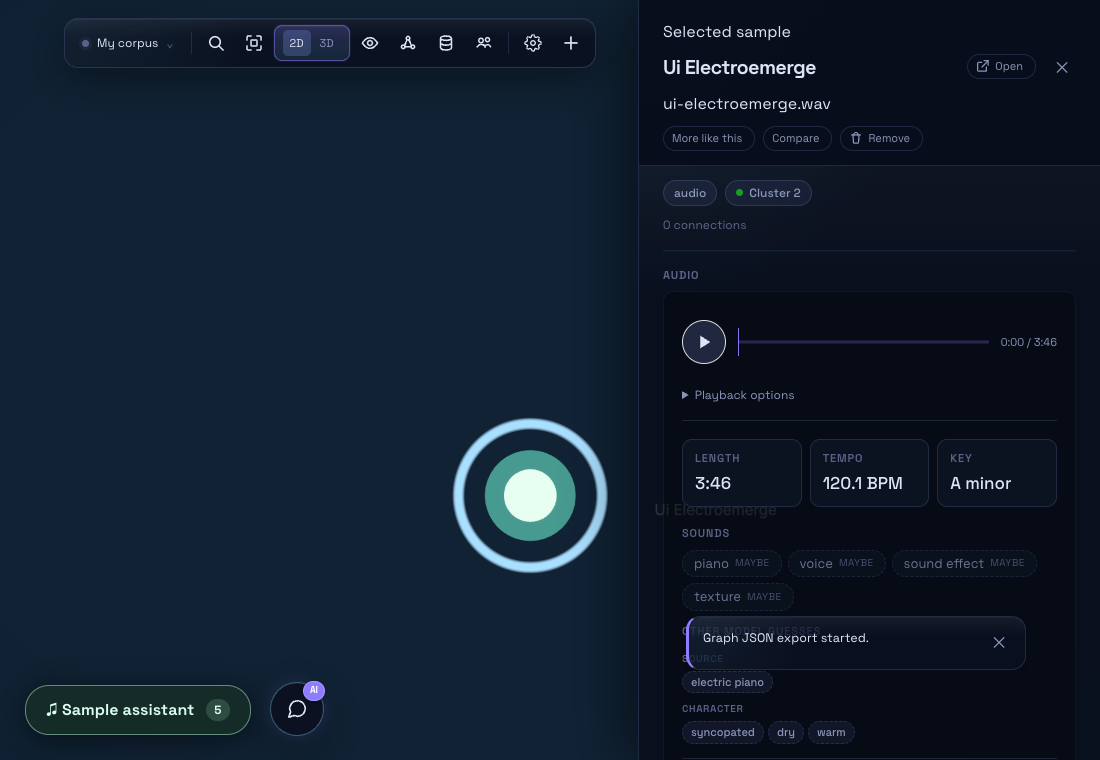
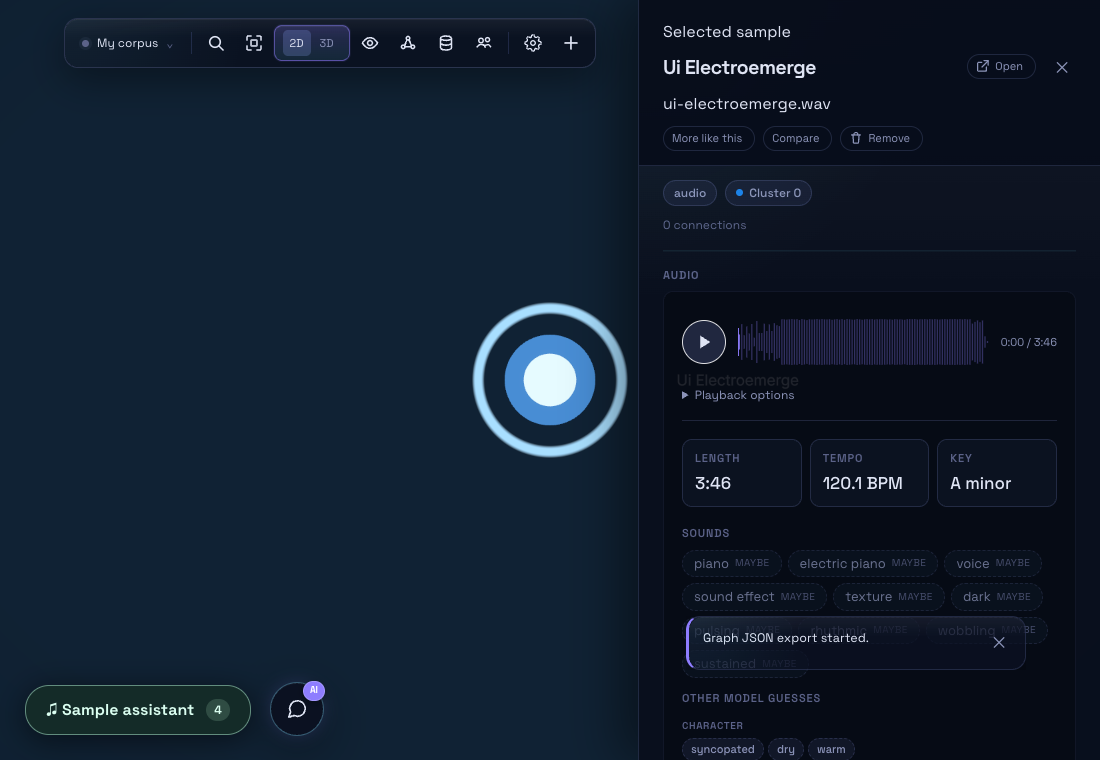
Record the final real-upload check (86 learned heads)

diff --git a/docs/open-vocabulary-sound-id.md b/docs/open-vocabulary-sound-id.md
@@ -88,12 +88,12 @@ shows them faded with "maybe". The maybe tier stays as a display hint.
 6. **Real-upload check** (`ui-upload-check.mjs`, `ui-export-tags.mjs`): uploads files into the built app in headless
    Chromium, then reads the Sounds panel and the app's own export.
 
-## Upload check in the real app (build with 65 learned heads)
+## Upload check in the real app (final build, 86 learned heads)
 
 | File | Shown |
 |---|---|
-| Electro track, 3:46 | 120.1 BPM, A minor; piano, voice, sound effect, texture (all maybe). Screenshot: `upload-electro-track.png` |
-| House track, 5:21 | 126 BPM; drums, drum loop, synthesizer (maybe), sound effect (maybe). Analysis "partial" (machine at load ~400) |
+| Electro track, 3:46 | 120.1 BPM, A minor; piano, electric piano, voice, sound effect, texture, dark, pulsing, rhythmic, wobbling, sustained (all maybe). Screenshot: `upload-electro-track.png` |
+| House track, 5:21 | 126 BPM; drums, drum loop; maybe: synthesizer, sound effect, rhythmic, pulsing, wobbling, sustained, airy. Analysis "partial" (machine at load ~400) |
 | 0.36 s kick one-shot (the source clip's length) | kick, drums, impact |
 | 5 s silence | nothing |
 | Random-bytes .wav | not added to the graph; no page errors |
